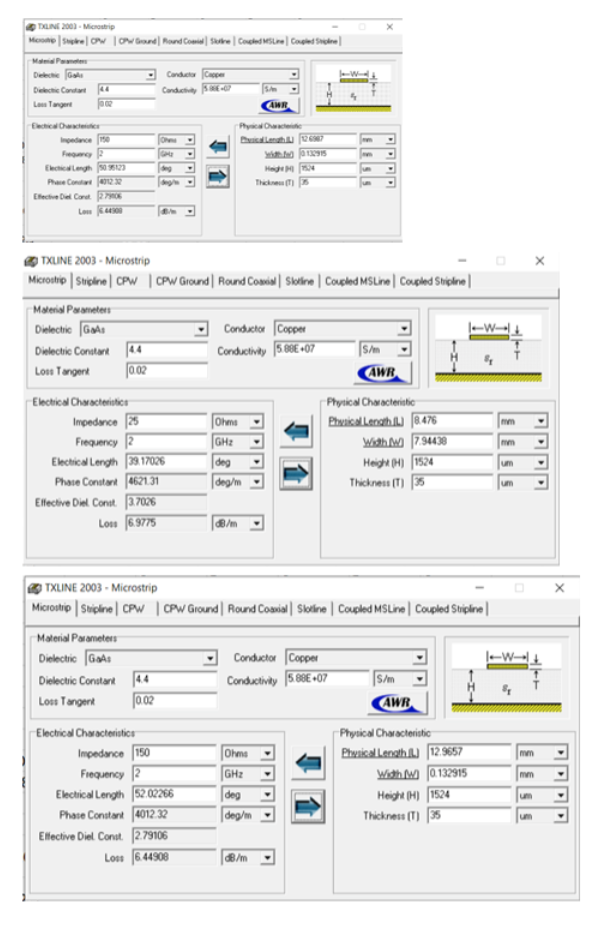
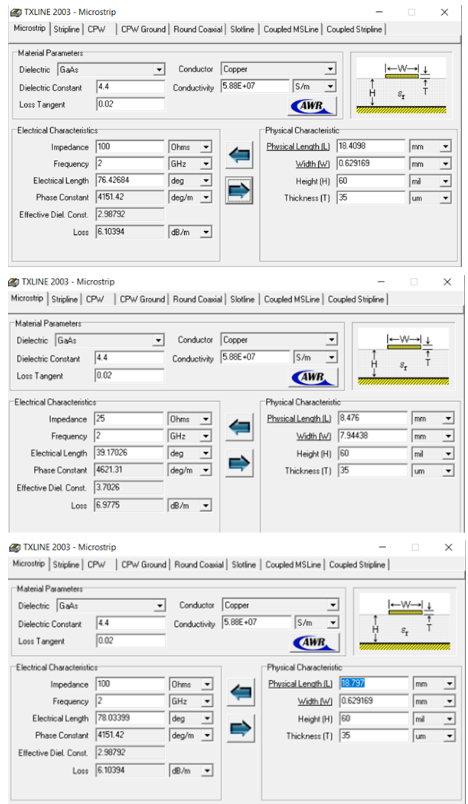
FIx PCB circuit, updated read me (#17)
* commit

* Update readme.md

* Update readme.md

* added image

* Delete .DS_Store

* Fix PCL to PCB, Attrach file, Edit summery

* fixed link

* Fixed summary

* Fixed

* fix conflict

* Change the PCB photo and re calculate graph

* Update EasyEda, Update doc info

---------

Changed region(s): [[0.0, 0.0, 1.0, 1.0]]

diff --git a/IUP-YxBanpu/readme.md b/IUP-YxBanpu/readme.md
@@ -46,11 +46,14 @@ Case 3: Zh=150Ω, Zl=25Ω
 
 <img width="502" src="Photo/9.png">
 
+Compare Graph<br>
+<img width="502" src="Photo/9_1.png">
+
 
 
 Compare cases at f = 2 GHz.
 Consider practical implications alongside theoretical analysis.
-Select the most suitable case (Case 3) for design.
+Select the most suitable case (Case 1) for design.
 
 ## Step 4: compute and design
 
@@ -90,12 +93,7 @@ Graph from geometry
 ## Conclusion
 
 From an experiment in Filter Design, starting with designing in the Sonnet program first, then designing in the EasyEDA program to order the real board. By experiment Values obtained
-from netlist simulation in the program It has a value similar to the geometry for which it was designed.
-
-
-From an experiment in Filter Design, starting with designing in the Sonnet program first, then designing in the EasyEDA program to order the real board. By experiment Values obtained
-from netlist simulation in the program It has a value similar to the geometry for which it was designed.
-
+from netlist simulation in the program It has a value similar to the geometry for which it was designed.  
 
 
 EasyEda Link : [EASYEDA](https://oshwlab.com/akasuk.ni/pcb123456789)
